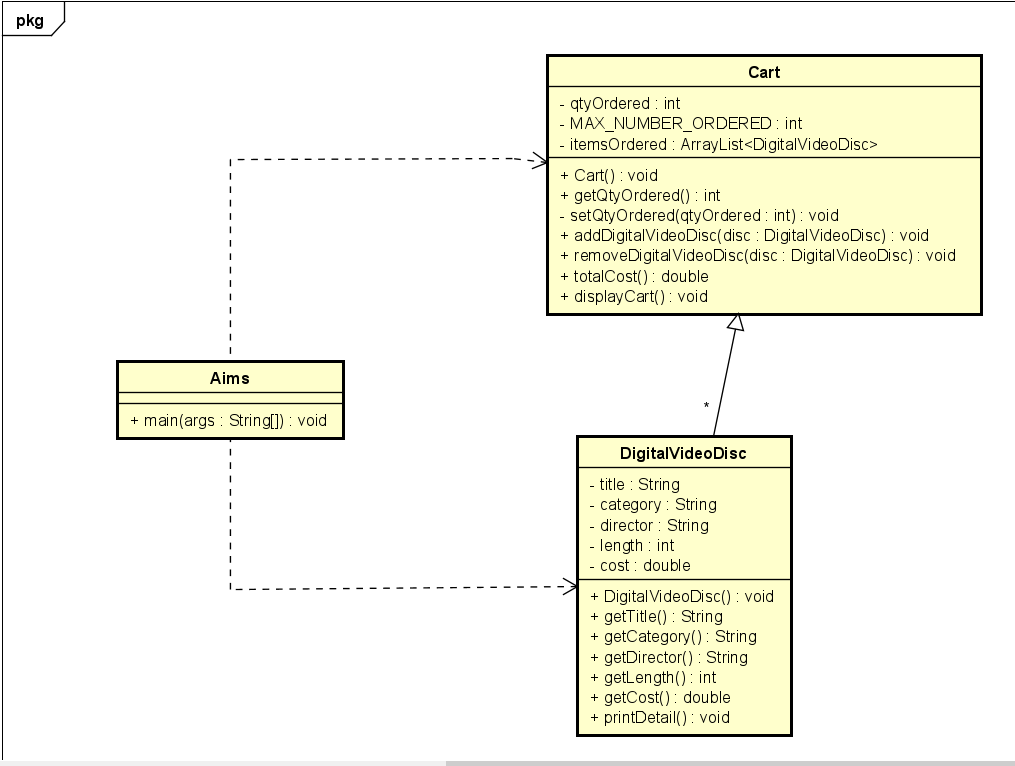
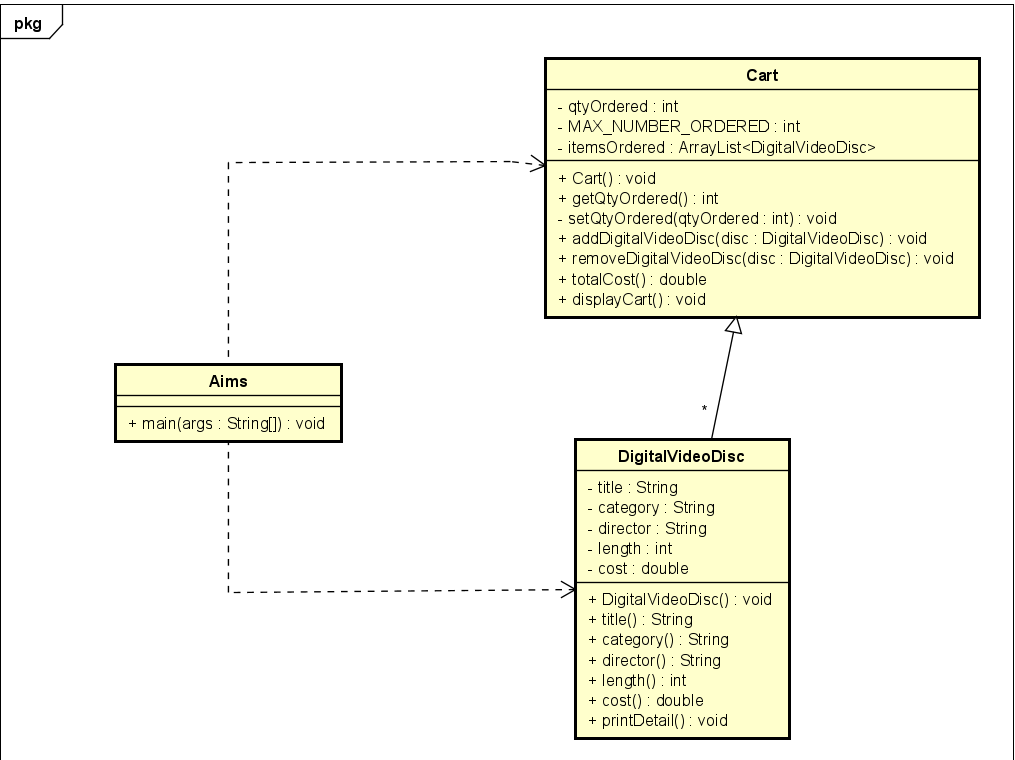
Remove all get prefix in getter methods due to inappropriate understanding

diff --git a/Lab03/AimsProject/src/DigitalVideoDisc.java b/Lab03/AimsProject/src/DigitalVideoDisc.java
@@ -65,41 +65,41 @@ public class DigitalVideoDisc {
 		this.cost = cost;
 	}
 	
-	public String getTitle() {
+	public String title() {
 		return title;
 	}
-	public String getCategory() {
+	public String category() {
 		return category;
 	}
-	public String getDirector() {
+	public String director() {
 		return director;
 	}
-	public int getLength() {
+	public int length() {
 		return length;
 	}
-	public float getCost() {
+	public float cost() {
 		return cost;
 	}
 	
 	public void playDVD() {
-		if(this.getLength() == 0) {
+		if(this.length() == 0) {
 			JOptionPane.showMessageDialog(null, "This DVD has length 0", 
 										  null, JOptionPane.ERROR_MESSAGE);	
 		}
 		else {
-			String message = "Title: " + this.getTitle() + "\n" +
-					 		 "Length: " + this.getLength();
+			String message = "Title: " + this.title() + "\n" +
+					 		 "Length: " + this.length();
 			JOptionPane.showMessageDialog(null, message, "Play DVD", 
 										  JOptionPane.INFORMATION_MESSAGE);
 		}
 	}
 	
 	public void displayDetail(String titleMessage) {
-		String message = "Title: " + this.getTitle() + "\n" +
-						 "Category: " + this.getCategory() + "\n" +
-						 "Director: " + this.getDirector() + "\n" +
-						 "Length: " + this.getLength() + "\n" +
-						 "Cost: " + this.getCost();
+		String message = "Title: " + this.title() + "\n" +
+						 "Category: " + this.category() + "\n" +
+						 "Director: " + this.director() + "\n" +
+						 "Length: " + this.length() + "\n" +
+						 "Cost: " + this.cost();
 		JOptionPane.showMessageDialog(null, message, titleMessage, 
 										JOptionPane.INFORMATION_MESSAGE);
 	}
